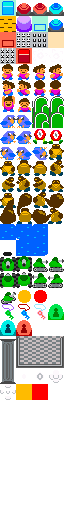
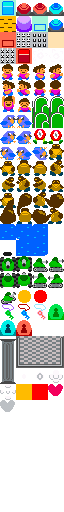
Add heart for GUI

Changed region(s): [[0.75, 0.75, 0.9688, 0.7812], [0.0, 0.7812, 0.2188, 0.8125]]

diff --git a/src/main.js b/src/main.js
@@ -256,7 +256,7 @@ Gameplay.prototype.update = function() {
 
     Globals.PlayerHealth--;
     this.gui.hearts.children.forEach(function (h) {
-      h.renderable = this.gui.hearts.children.indexOf(h) <= (Globals.PlayerHealth - 1);
+      h.frame = this.gui.hearts.children.indexOf(h) <= (Globals.PlayerHealth - 1) ? 99 : 100;
     }, this);
 
     if (Globals.PlayerHealth > 0) {
@@ -415,7 +415,7 @@ Gameplay.prototype.setUpGUI = function() {
   hearts.x = 16;
   hearts.y = 16;
   for (var i = 0; i < Globals.PlayerMaxHealth; i++) {
-    var heartContainer = this.game.add.sprite(24 * i, 0, 'blocks', 1);
+    var heartContainer = this.game.add.sprite(21 * i, 0, 'blocks', 99);
     hearts.addChild(heartContainer);
   }
   this.gui.hearts = hearts;
